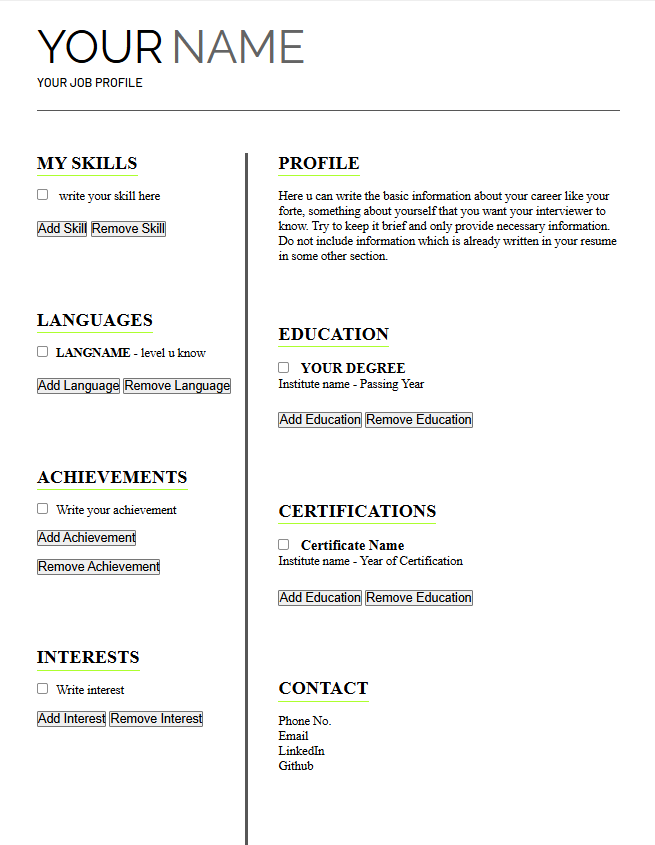
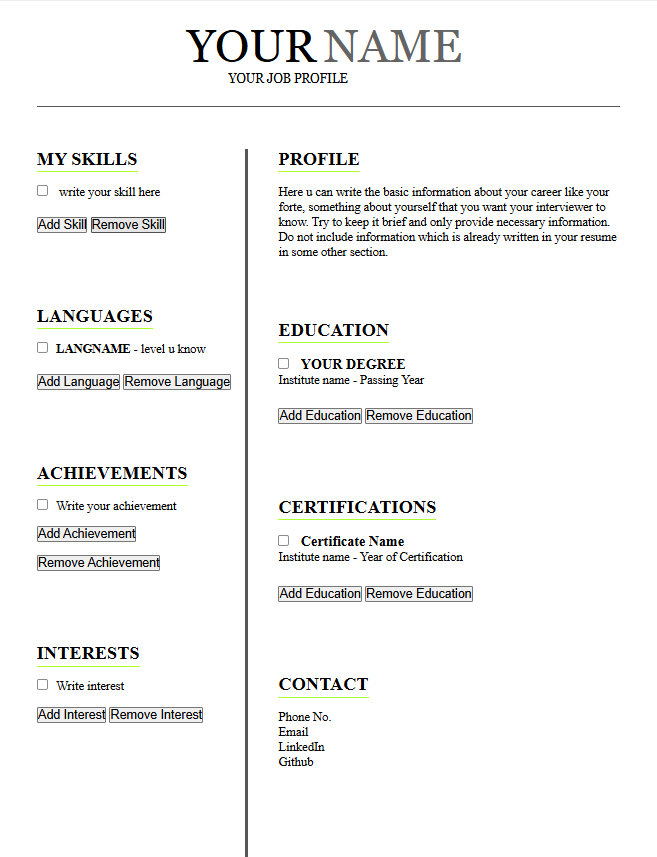
add template 3

diff --git a/Templates/template3.html b/Templates/template3.html
@@ -8,7 +8,7 @@
         <link href="https://fonts.googleapis.com/css2?family=Poppins&display=swap" rel="stylesheet">
         <link href="https://fonts.googleapis.com/css2?family=Playfair+Display&display=swap" rel="stylesheet">
 
-        <link rel="stylesheet" href="template2.css">
+        <link rel="stylesheet" href="template3.css">
     </head>
     <body>
     <div class="nav">
@@ -37,7 +37,6 @@
 
             <div class="line"></div>
             <div class="mainbody">
-                <div class="leftside">
 
 
 
@@ -46,10 +45,16 @@
                     <div contenteditable="true">
                     Here u can write the basic information about your career like your forte, something about yourself that
                     you want your interviewer to know. Try to keep it brief and only provide necessary information. Do not include information which is
-                    already written in your resume in some other section.</div><br><br>
+                    already written in your resume in some other section.</div><br>
+                    <div class="line"></div>
+
     
-    
-    
+
+
+                    <div class= "mainbody2">
+
+                    <div class="leftside">
+
                     <br><br><span class="title">EDUCATION</span><br><br><div>
                     <div id="education">
     
@@ -101,19 +106,7 @@
                     </div>
 
 
-                    
-
-
-
-                    
-
-
-                    
-    
-    
-    
-    
-
+            
 
 
 
@@ -125,7 +118,7 @@
 
 
 
-                    <span class="title">MY SKILLS</span><br><br><div>
+                    <br><br><span class="title">MY SKILLS</span><br><br><div>
                         <div class="skill"><span><input type="checkbox" class="input-checkbox">Write your skill here</div>
                         <div id="skills"></div>
         
@@ -164,7 +157,7 @@
 
 
 
-
+                    </div>
 
 
 

diff --git a/Templates/template3.css b/Templates/template3.css
@@ -59,7 +59,7 @@ body{
 {
     font-size: 55px;
     font-family: 'Playfair Display', serif;
-
+    margin-left: 120px;
 }
 
 
@@ -72,7 +72,9 @@ body{
     margin-left: 5px;
 }
 
-
+.post{
+    margin-left: 140px;
+}
 
 .head .main .post
 {
@@ -111,14 +113,16 @@ font-family: 'Playfair Display', serif;
     height: 0.5px;
     background-color: rgb(87, 87, 87);
     margin: 25px 0;
-    margin-bottom: 50px;
+    margin-bottom: 25px;
 }
 
-
+.mainbody2{
+    display: flex;
+}
 
 .mainbody
 {
-    display: grid;
+    /* display: grid; */
     grid-template-columns: 10fr 1fr 17fr;
     height: 900px;
 }
@@ -139,6 +143,12 @@ font-family: 'Playfair Display', serif;
 .mainbody .rightside
 {
     padding-left: 50px;
+    
+}
+
+
+.rightside{
+    margin-left: 50px;
 }
 
 

diff --git a/Templates/template1.css b/Templates/template1.css
@@ -51,6 +51,7 @@ body{
 {
     display: grid;
     grid-template-columns: 3fr 1.5fr;
+    margin-left: 180px;
 }
 
 
@@ -58,7 +59,7 @@ body{
 .head .main .name
 {
     font-size: 55px;
-    font-family: 'Raleway', sans-serif;
+    font-family: Georgia, 'Times New Roman', Times, serif;
     
 }
 
@@ -68,16 +69,21 @@ body{
 {
     color: rgb(100, 100, 100);
     font-size: 55px;
-    font-family: 'Raleway', sans-serif;
+    font-family: Georgia, 'Times New Roman', Times, serif;
     margin-left: 5px;
 }
 
 
+.post{
+    margin-left: 50px;
+}
+
 
 .head .main .post
 {
-font-family: 'Barlow', sans-serif;
+    font-family: Georgia, 'Times New Roman', Times, serif;
 }
+
 
 
 .head .contacts

diff --git a/style.css b/style.css
@@ -18,7 +18,6 @@
   .container {
     text-align: center;
     width: 100%;
-    height: auto;
   }
   
   h1 {
@@ -28,15 +27,16 @@
   }
   
   .template-grid {
-    display: grid;
+    display: flex;
     grid-template-columns: repeat(auto-fit, minmax(200px, 1fr));
-    gap: 135px;
-    max-width: 1000px;
-    margin: 0 auto;
+    gap: 100px;
+    /* max-width: 1000px; */
+    /* margin: 0 auto; */
+    margin-left: 65px
   }
   
   .template-grid img {
-    width: 120%;
+    /* width: 120%; */
     height: auto;
     border-radius: 10px;
     box-shadow: 0 8px 20px rgba(0, 0, 0, 0.15);

diff --git a/index.html b/index.html
@@ -11,15 +11,18 @@
     <h1>Select a Resume Template</h1><br>
     <div class="template-grid">
 
-      <a href="/Templates/template1.html">
+      <a href="Templates/template1.html">
         <img src="assets/template1.png" alt="Template 1" />
       </a>
 
-      <a href="/Templates/template2.html">
+
+      <a href="Templates/template2.html">
         <img src="assets/template2.png" alt="Template 2" />
       </a>
 
-
+      <a href="Templates/template3.html">
+        <img src="assets/template3.png" alt="Template 3" />
+      </a>
 
     </div>
     <h2>Made By Ayush Shinde</h2>

diff --git a/Templates/template1.html b/Templates/template1.html
@@ -10,7 +10,7 @@
     </head>
     <body>
     <div class="nav">
-    <button id="cmd" onclick="printpdf()" class="navbtn">Download</button>
+    <button id="cmd" onclick="printpdf()" class="navbtn">Save</button>
     <form>
     <input type="hidden" id="custinfo" name="custinfo">
     <button class="navbtn">Clear</button>
